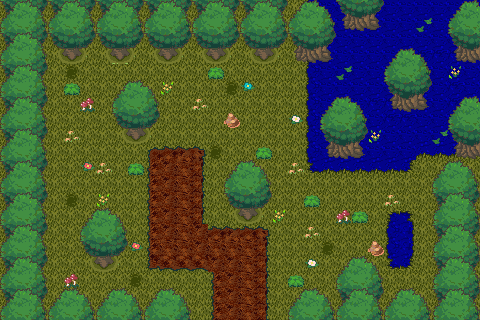
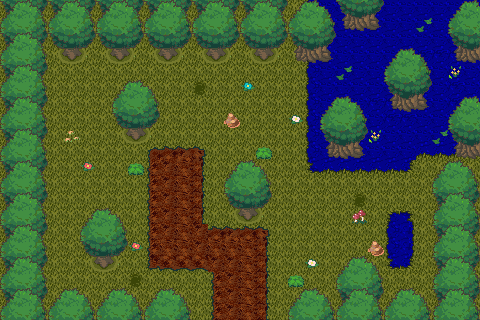
add colisoes, trocas de mapa, mapa 4

diff --git a/Projeto IP/Projeto-Final-IP---CC---2025.2/src/colisoes.py b/Projeto IP/Projeto-Final-IP---CC---2025.2/src/colisoes.py
@@ -1,4 +1,5 @@
 import pygame
+from src.mapas import Mapas 
 
 class Colisoes:
     def __init__(self, blocks):
@@ -6,17 +7,131 @@ class Colisoes:
 
     def coletar_xy(self, num):
         num -= 1
-        x = num % 16
-        y = int(num / 16)
+        x = num % 30
+        y = int(num / 30)
         return (x * 32, y * 32)
 
-    def criar_colisoes(self):
+    def criar_colisoes(self, lista_colisoes):
         coords = []
 
-        for block in self.blocks:
+        for block in lista_colisoes:
             coord = self.coletar_xy(block)
             coords.append(coord)
 
         return coords
 
+    def lista_colisoes(self, mapa_atual):
+        colisoes_base = self.get_colisoes(mapa_atual)
+        colisoes = self.criar_colisoes(colisoes_base)
+        lista_colisoes = []
+        for coord in colisoes:
+            colisao = pygame.Rect(coord[0], coord[1], 32, 32)
+            lista_colisoes.append(colisao)
 
+        return lista_colisoes
+
+    def get_colisoes(self, mapa_atual):
+        if mapa_atual == 1:
+            colisoes = [
+            [1, 1, 1, 1, 1, 1, 1, 1, 1, 1, 1, 1, 1, 1, 1, 1, 1, 1, 1, 1, 1, 1, 1, 1, 1, 1, 1, 1, 1, 1],
+            [1, 1, 1, 1, 1, 1, 1, 1, 1, 1, 1, 1, 1, 1, 1, 1, 1, 1, 1, 1, 1, 1, 1, 1, 1, 1, 1, 1, 1, 1],
+            [1, 1, 1, 1, 1, 1, 1, 1, 1, 1, 1, 1, 1, 1, 1, 1, 1, 1, 1, 1, 1, 1, 1, 1, 1, 1, 1, 1, 1, 1],
+            [1, 1, 1, 0, 0, 0, 0, 0, 0, 0, 0, 0, 0, 0, 0, 0, 0, 0, 0, 1, 1, 1, 1, 1, 1, 1, 1, 1, 1, 1],
+            [1, 1, 1, 0, 0, 0, 0, 0, 0, 0, 0, 0, 0, 0, 0, 0, 0, 0, 0, 1, 1, 1, 1, 1, 1, 1, 1, 1, 1, 1],
+            [1, 1, 1, 0, 0, 0, 0, 0, 0, 0, 0, 0, 0, 0, 0, 0, 0, 0, 0, 1, 1, 1, 1, 1, 1, 1, 1, 1, 1, 1],
+            [1, 1, 1, 0, 0, 0, 0, 1, 1, 1, 0, 0, 0, 0, 0, 0, 0, 0, 0, 1, 1, 1, 1, 1, 1, 1, 1, 1, 1, 1],
+            [1, 1, 1, 0, 0, 0, 0, 1, 1, 1, 0, 0, 0, 0, 1, 0, 0, 0, 0, 1, 1, 1, 1, 1, 1, 1, 1, 1, 1, 1],
+            [1, 1, 1, 0, 0, 0, 0, 0, 0, 0, 0, 0, 0, 0, 0, 0, 0, 0, 0, 1, 1, 1, 1, 1, 1, 1, 1, 1, 1, 1],
+            [1, 1, 1, 0, 0, 0, 0, 0, 0, 0, 0, 0, 0, 0, 0, 0, 0, 0, 0, 1, 1, 1, 1, 1, 1, 1, 1, 1, 1, 1],
+            [1, 1, 1, 0, 0, 0, 0, 0, 0, 0, 0, 0, 0, 0, 0, 0, 0, 0, 0, 1, 1, 1, 1, 1, 1, 1, 0, 0, 0, 0],
+            [1, 1, 1, 0, 0, 0, 0, 0, 0, 0, 0, 0, 0, 0, 1, 1, 1, 0, 0, 0, 0, 0, 0, 0, 0, 0, 0, 1, 1, 1],
+            [1, 1, 1, 0, 0, 0, 0, 0, 0, 0, 0, 0, 0, 0, 1, 1, 1, 0, 0, 0, 0, 0, 0, 0, 0, 0, 0, 1, 1, 1],
+            [1, 1, 1, 0, 0, 0, 0, 0, 0, 0, 0, 0, 0, 0, 0, 0, 0, 0, 0, 0, 0, 0, 0, 0, 1, 1, 0, 1, 1, 1],
+            [1, 1, 1, 0, 0, 1, 1, 1, 0, 0, 0, 0, 0, 0, 0, 0, 0, 0, 0, 0, 0, 0, 0, 0, 1, 1, 0, 1, 1, 1],
+            [1, 1, 1, 0, 0, 1, 1, 1, 0, 0, 0, 0, 0, 0, 0, 0, 0, 0, 0, 0, 0, 0, 0, 1, 1, 1, 0, 1, 1, 1],
+            [1, 1, 1, 0, 0, 0, 0, 0, 0, 0, 0, 0, 0, 0, 0, 0, 0, 0, 0, 0, 0, 0, 0, 0, 1, 1, 0, 1, 1, 1],
+            [1, 1, 1, 0, 0, 0, 0, 0, 0, 0, 0, 0, 0, 0, 0, 0, 0, 0, 0, 0, 0, 1, 1, 1, 0, 0, 0, 1, 1, 1],
+            [1, 1, 1, 0, 0, 0, 0, 0, 0, 0, 0, 0, 0, 0, 0, 0, 0, 0, 0, 0, 0, 1, 1, 1, 0, 0, 0, 1, 1, 1],
+            [1, 1, 1, 1, 1, 1, 1, 1, 1, 1, 1, 1, 0, 0, 0, 0, 0, 0, 1, 1, 1, 1, 1, 1, 1, 1, 1, 1, 1, 1]]
+
+        elif mapa_atual == 2:
+            colisoes = [
+            [1, 1, 1, 1, 1, 1, 1, 1, 1, 1, 1, 1, 0, 0, 0, 0, 0, 0, 1, 1, 1, 1, 1, 1, 1, 1, 1, 1, 1, 1],
+            [1, 1, 1, 1, 1, 1, 1, 1, 1, 1, 1, 1, 0, 0, 0, 0, 0, 0, 1, 1, 1, 1, 1, 1, 1, 1, 1, 1, 1, 1],
+            [1, 1, 1, 1, 1, 1, 1, 1, 1, 1, 1, 1, 0, 0, 0, 0, 0, 0, 1, 1, 1, 1, 1, 1, 1, 1, 1, 1, 1, 1],
+            [1, 1, 1, 0, 0, 0, 0, 0, 0, 0, 0, 0, 0, 0, 0, 0, 0, 0, 0, 0, 0, 0, 0, 0, 0, 0, 0, 1, 1, 1],
+            [1, 1, 1, 0, 0, 0, 0, 0, 0, 0, 0, 0, 0, 0, 0, 0, 0, 0, 0, 0, 0, 0, 0, 0, 0, 0, 0, 1, 1, 1],
+            [1, 1, 1, 0, 1, 0, 0, 0, 0, 0, 0, 0, 0, 0, 0, 0, 0, 0, 0, 0, 0, 1, 1, 1, 0, 0, 0, 1, 1, 1],
+            [1, 1, 1, 0, 0, 0, 0, 0, 0, 0, 0, 0, 0, 0, 0, 0, 0, 0, 0, 1, 0, 1, 1, 1, 0, 0, 0, 1, 1, 1],
+            [1, 1, 1, 0, 0, 0, 0, 0, 0, 1, 0, 0, 0, 0, 0, 0, 0, 0, 0, 0, 0, 0, 0, 0, 0, 0, 0, 0, 0, 0],
+            [1, 1, 1, 0, 1, 1, 0, 0, 0, 0, 0, 0, 0, 0, 0, 0, 0, 0, 0, 0, 0, 0, 0, 0, 0, 0, 0, 0, 0, 0],
+            [1, 1, 1, 0, 1, 1, 0, 0, 0, 0, 0, 0, 0, 0, 0, 0, 0, 0, 0, 0, 0, 0, 0, 0, 0, 0, 0, 0, 0, 0],
+            [1, 1, 1, 0, 1, 1, 0, 0, 1, 1, 1, 1, 0, 0, 0, 0, 0, 0, 0, 0, 0, 0, 0, 0, 0, 0, 0, 0, 0, 0],
+            [1, 1, 1, 0, 1, 1, 0, 0, 1, 1, 1, 1, 0, 0, 0, 0, 0, 0, 0, 0, 0, 0, 0, 0, 0, 0, 0, 0, 0, 0],
+            [1, 1, 1, 0, 0, 0, 0, 0, 1, 1, 1, 1, 0, 0, 0, 0, 0, 0, 0, 0, 0, 0, 0, 0, 0, 0, 0, 0, 0, 0],
+            [1, 1, 1, 0, 0, 0, 1, 0, 1, 1, 1, 1, 0, 0, 0, 0, 0, 0, 0, 0, 0, 0, 0, 0, 0, 0, 0, 1, 1, 1],
+            [1, 1, 1, 0, 0, 0, 0, 0, 0, 0, 0, 0, 0, 0, 1, 0, 0, 0, 0, 0, 1, 0, 0, 0, 0, 0, 0, 1, 1, 1],
+            [1, 1, 1, 1, 1, 1, 1, 1, 0, 0, 0, 0, 0, 0, 0, 0, 0, 0, 0, 0, 0, 0, 1, 0, 0, 0, 0, 1, 1, 1],
+            [1, 1, 1, 1, 1, 1, 1, 1, 0, 0, 0, 0, 0, 0, 0, 0, 0, 0, 0, 0, 0, 0, 0, 0, 0, 0, 0, 1, 1, 1],
+            [1, 1, 1, 1, 1, 1, 1, 1, 0, 0, 0, 0, 0, 0, 1, 0, 0, 0, 0, 0, 0, 0, 0, 0, 0, 1, 0, 1, 1, 1],
+            [1, 1, 1, 1, 1, 1, 1, 1, 1, 0, 0, 0, 0, 0, 0, 0, 0, 0, 0, 0, 0, 0, 0, 0, 0, 0, 0, 1, 1, 1],
+            [1, 1, 1, 1, 1, 1, 1, 1, 1, 1, 1, 1, 1, 1, 1, 1, 1, 1, 1, 1, 1, 1, 1, 1, 1, 1, 1, 1, 1, 1]]
+
+        elif mapa_atual == 3:
+            colisoes = [
+            [1, 1, 1, 1, 1, 1, 1, 1, 1, 1, 1, 1, 1, 1, 1, 0, 0, 0, 0, 1, 1, 1, 1, 1, 1, 1, 1, 1, 1, 1],
+            [1, 1, 1, 1, 1, 1, 1, 1, 1, 1, 1, 1, 1, 1, 1, 0, 0, 0, 0, 1, 1, 1, 1, 1, 1, 1, 1, 1, 1, 1],
+            [1, 1, 1, 1, 1, 1, 1, 1, 1, 1, 1, 1, 1, 1, 1, 0, 0, 0, 0, 1, 1, 1, 1, 1, 1, 1, 1, 1, 1, 1],
+            [1, 1, 1, 0, 0, 0, 0, 0, 0, 0, 0, 0, 0, 0, 0, 0, 0, 0, 0, 0, 0, 0, 1, 1, 1, 1, 1, 1, 1, 1],
+            [1, 1, 1, 0, 0, 0, 0, 0, 0, 0, 0, 0, 0, 0, 0, 0, 0, 0, 0, 0, 0, 0, 1, 1, 1, 1, 1, 1, 1, 1],
+            [1, 1, 1, 0, 0, 0, 0, 0, 0, 0, 0, 0, 0, 0, 0, 0, 0, 0, 0, 0, 0, 0, 1, 1, 1, 1, 1, 1, 1, 1],
+            [1, 1, 1, 0, 0, 1, 1, 1, 0, 0, 0, 0, 0, 0, 0, 0, 0, 0, 0, 0, 0, 0, 1, 1, 1, 1, 1, 1, 1, 1],
+            [0, 0, 0, 0, 0, 1, 1, 1, 0, 0, 0, 0, 0, 0, 0, 0, 0, 0, 0, 0, 0, 0, 1, 1, 1, 1, 1, 1, 1, 1],
+            [0, 0, 0, 0, 0, 0, 0, 0, 0, 0, 0, 0, 0, 0, 0, 0, 0, 0, 0, 0, 0, 0, 1, 1, 1, 1, 1, 1, 1, 1],
+            [0, 0, 0, 0, 0, 0, 0, 0, 0, 0, 0, 0, 0, 0, 0, 0, 0, 0, 0, 0, 0, 0, 1, 1, 1, 1, 1, 1, 1, 1],
+            [0, 0, 0, 0, 0, 0, 0, 0, 0, 0, 0, 0, 0, 0, 0, 0, 0, 0, 0, 1, 1, 1, 1, 1, 1, 1, 1, 1, 1, 1],
+            [0, 0, 0, 0, 0, 0, 0, 0, 0, 0, 0, 0, 0, 0, 0, 0, 0, 0, 0, 1, 1, 1, 1, 1, 1, 1, 1, 1, 1, 1],
+            [0, 0, 0, 0, 0, 0, 0, 0, 0, 0, 0, 0, 0, 0, 0, 0, 0, 0, 0, 0, 0, 0, 1, 1, 1, 1, 1, 1, 1, 1],
+            [1, 1, 1, 0, 0, 0, 0, 0, 0, 0, 0, 1, 1, 1, 0, 0, 0, 0, 0, 0, 0, 0, 1, 1, 1, 1, 1, 1, 1, 1],
+            [1, 1, 1, 0, 0, 0, 0, 0, 0, 0, 0, 1, 1, 1, 0, 0, 0, 0, 0, 0, 0, 0, 1, 1, 1, 1, 1, 1, 1, 1],
+            [1, 1, 1, 0, 0, 0, 0, 0, 0, 0, 0, 0, 0, 0, 0, 0, 0, 0, 0, 0, 0, 0, 1, 1, 1, 1, 1, 1, 1, 1],
+            [1, 1, 1, 0, 0, 0, 0, 0, 0, 0, 0, 0, 0, 0, 0, 0, 0, 0, 0, 0, 0, 0, 1, 1, 1, 1, 1, 1, 1, 1],
+            [1, 1, 1, 0, 0, 0, 0, 0, 0, 0, 0, 0, 0, 0, 0, 0, 0, 0, 0, 0, 0, 0, 1, 1, 1, 1, 1, 1, 1, 1],
+            [1, 1, 1, 0, 0, 0, 0, 0, 0, 0, 0, 0, 0, 0, 0, 0, 0, 0, 0, 0, 0, 0, 1, 1, 1, 1, 1, 1, 1, 1],
+            [1, 1, 1, 1, 1, 1, 1, 1, 1, 1, 1, 1, 1, 1, 1, 0, 0, 0, 0, 1, 1, 1, 1, 1, 1, 1, 1, 1, 1, 1]]
+
+        elif mapa_atual == 4:
+            colisoes = [
+            [0, 0, 0, 0, 0, 0, 0, 0, 0, 0, 0, 0, 0, 0, 0, 0, 0, 0, 0, 0, 0, 0, 1, 1, 1, 1, 1, 1, 1, 1],
+            [0, 0, 0, 0, 0, 0, 0, 0, 0, 0, 0, 0, 0, 0, 0, 0, 0, 0, 0, 0, 0, 0, 1, 1, 1, 1, 1, 1, 1, 1],
+            [0, 0, 0, 0, 0, 0, 0, 0, 0, 0, 0, 0, 0, 0, 0, 0, 0, 0, 0, 0, 0, 0, 1, 1, 1, 1, 1, 1, 1, 1],
+            [0, 0, 0, 0, 0, 0, 0, 0, 0, 0, 0, 0, 0, 0, 0, 0, 0, 0, 0, 0, 0, 0, 1, 1, 1, 1, 1, 1, 1, 1],
+            [0, 0, 0, 0, 0, 0, 0, 0, 0, 0, 0, 0, 0, 0, 0, 0, 0, 0, 0, 0, 0, 0, 1, 1, 1, 1, 1, 1, 1, 1],
+            [0, 0, 0, 0, 0, 0, 0, 0, 0, 0, 0, 0, 0, 0, 0, 0, 0, 0, 0, 0, 0, 0, 1, 1, 1, 1, 1, 1, 1, 1],
+            [0, 0, 0, 0, 0, 0, 0, 0, 0, 0, 0, 0, 0, 0, 0, 0, 0, 0, 0, 0, 0, 0, 1, 1, 1, 1, 1, 1, 1, 1],
+            [0, 0, 0, 0, 0, 0, 0, 0, 0, 0, 0, 0, 0, 0, 0, 0, 0, 0, 0, 0, 0, 0, 1, 1, 1, 1, 1, 1, 1, 1],
+            [0, 0, 0, 0, 0, 0, 0, 0, 0, 0, 0, 0, 0, 0, 0, 0, 0, 0, 0, 0, 0, 0, 1, 1, 1, 1, 1, 1, 1, 1],
+            [0, 0, 0, 0, 0, 0, 0, 0, 0, 0, 0, 0, 0, 0, 0, 0, 0, 0, 0, 0, 0, 0, 1, 1, 1, 1, 1, 1, 1, 1],
+            [0, 0, 0, 0, 0, 0, 0, 0, 0, 0, 0, 0, 0, 0, 0, 0, 0, 0, 0, 0, 0, 0, 1, 1, 1, 1, 1, 1, 1, 1],
+            [0, 0, 0, 0, 0, 0, 0, 0, 0, 0, 0, 0, 0, 0, 0, 0, 0, 0, 0, 0, 0, 0, 1, 1, 1, 1, 1, 1, 1, 1],
+            [0, 0, 0, 0, 0, 0, 0, 0, 0, 0, 0, 0, 0, 0, 0, 0, 0, 0, 0, 0, 0, 0, 1, 1, 1, 1, 1, 1, 1, 1],
+            [0, 0, 0, 0, 0, 0, 0, 0, 0, 0, 0, 0, 0, 0, 0, 0, 0, 0, 0, 0, 0, 0, 1, 1, 1, 1, 1, 1, 1, 1],
+            [0, 0, 0, 0, 0, 0, 0, 0, 0, 0, 0, 0, 0, 0, 0, 0, 0, 0, 0, 0, 0, 0, 1, 1, 1, 1, 1, 1, 1, 1],
+            [0, 0, 0, 0, 0, 0, 0, 0, 0, 0, 0, 0, 0, 0, 0, 0, 0, 0, 0, 0, 0, 0, 1, 1, 1, 1, 1, 1, 1, 1],
+            [0, 0, 0, 0, 0, 0, 0, 0, 0, 0, 0, 0, 0, 0, 0, 0, 0, 0, 0, 0, 0, 0, 1, 1, 1, 1, 1, 1, 1, 1],
+            [0, 0, 0, 0, 0, 0, 0, 0, 0, 0, 0, 0, 0, 0, 0, 0, 0, 0, 0, 0, 0, 0, 1, 1, 1, 1, 1, 1, 1, 1],
+            [0, 0, 0, 0, 0, 0, 0, 0, 0, 0, 0, 0, 0, 0, 0, 0, 0, 0, 0, 0, 0, 0, 1, 1, 1, 1, 1, 1, 1, 1],
+            [1, 1, 1, 1, 1, 1, 1, 1, 1, 1, 1, 1, 1, 1, 1, 0, 0, 0, 0, 1, 1, 1, 1, 1, 1, 1, 1, 1, 1, 1]]
+
+        colisoes = self.transformar_num(colisoes)
+        return colisoes
+    
+    def transformar_num(self, matriz):
+        lista = []
+        for i in range(20):
+            for j in range(30):
+                if matriz[i][j] == 1:
+                    num = 1 + (30*i) + j
+                    lista.append(num)
+
+        return lista

diff --git a/Projeto IP/Projeto-Final-IP---CC---2025.2/src/mapas.py b/Projeto IP/Projeto-Final-IP---CC---2025.2/src/mapas.py
@@ -8,12 +8,24 @@ class Mapas:
         self.mapa1 = pygame.image.load('Projeto IP/Projeto-Final-IP---CC---2025.2/Assets/Imagens/mapa_1.png')
         self.mapa2 = pygame.image.load('Projeto IP/Projeto-Final-IP---CC---2025.2/Assets/Imagens/mapa_2.png')
         self.mapa3 = pygame.image.load('Projeto IP/Projeto-Final-IP---CC---2025.2/Assets/Imagens/mapa_3.png')
+        self.mapa4 = pygame.image.load('Projeto IP/Projeto-Final-IP---CC---2025.2/Assets/Imagens/mapa_4.png')
+
+        self.mapa1_arvores = pygame.image.load('Projeto IP/Projeto-Final-IP---CC---2025.2/Assets/Imagens/mapa_1_arvores.png')
+        self.mapa2_arvores = pygame.image.load('Projeto IP/Projeto-Final-IP---CC---2025.2/Assets/Imagens/mapa_2_arvores.png')
+        self.mapa3_arvores = pygame.image.load('Projeto IP/Projeto-Final-IP---CC---2025.2/Assets/Imagens/mapa_3_arvores.png')
+        self.mapa4_arvores = pygame.image.load('Projeto IP/Projeto-Final-IP---CC---2025.2/Assets/Imagens/mapa_4_arvores.png')
 
         self.mapa1 = pygame.transform.scale(self.mapa1, (largura, altura))
         self.mapa2 = pygame.transform.scale(self.mapa2, (largura, altura))
         self.mapa3 = pygame.transform.scale(self.mapa3, (largura, altura))
+        self.mapa4 = pygame.transform.scale(self.mapa4, (largura, altura))
 
-        # mapa atual
+        self.mapa1_arvores = pygame.transform.scale(self.mapa1_arvores, (largura, altura))
+        self.mapa2_arvores = pygame.transform.scale(self.mapa2_arvores, (largura, altura))
+        self.mapa3_arvores = pygame.transform.scale(self.mapa3_arvores, (largura, altura))
+        self.mapa4_arvores = pygame.transform.scale(self.mapa4_arvores, (largura, altura))
+
+        # mapa inicial
         self.mapa_atual = 1
 
     def desenhar(self, tela):
@@ -23,14 +35,25 @@ class Mapas:
             tela.blit(self.mapa2, (0, 0))
         elif self.mapa_atual == 3:
             tela.blit(self.mapa3, (0, 0))
+        elif self.mapa_atual == 4:
+            tela.blit(self.mapa4, (0, 0))
+
+    def desenhar_arvores(self, tela):
+        if self.mapa_atual == 1:
+            tela.blit(self.mapa1_arvores, (0, 0))
+        elif self.mapa_atual == 2:
+             tela.blit(self.mapa2_arvores, (0, 0))
+        elif self.mapa_atual == 3:
+             tela.blit(self.mapa3_arvores, (0, 0))
+        elif self.mapa_atual == 4:
+             tela.blit(self.mapa4_arvores, (0, 0))
 
     def trocar_mapa(self, player):
-
         if self.mapa_atual == 1:
             if player.rect.top > self.altura:
                 self.mapa_atual = 2
-                player.rect.y = 0
                 player.pos_y = 0.0
+                player.rect.y = int(player.pos_y)
 
         elif self.mapa_atual == 2:
             if player.rect.bottom < 0:
@@ -49,3 +72,13 @@ class Mapas:
                 player.rect.x = self.largura - player.rect.width
                 player.pos_x = float(player.rect.x)
 
+            elif player.rect.top > self.altura:
+                self.mapa_atual = 4
+                player.pos_y = 0.0
+                player.rect.y = int(player.pos_y)
+
+        elif self.mapa_atual == 4:
+            if player.rect.bottom < 0:
+                self.mapa_atual = 3
+                player.rect.y = self.altura - player.rect.height
+                player.pos_y = float(player.rect.y)

diff --git a/Projeto IP/Projeto-Final-IP---CC---2025.2/src/player.py b/Projeto IP/Projeto-Final-IP---CC---2025.2/src/player.py
@@ -2,7 +2,7 @@ import pygame
 import os
 
 class Player(pygame.sprite.Sprite):
-    def __init__(self, x, y):
+    def __init__(self, x, y, colisoes):
         super().__init__()
         
         # Configuracao da animacao
@@ -19,7 +19,8 @@ class Player(pygame.sprite.Sprite):
             "idle_right": [], "run_right": [],
         }
         self.import_assets() # Chama a funcao q carrega as imagens
-        
+        self.colisoes = colisoes
+
         # Imagem inicial
         self.image = self.animations[self.status][self.frame_index]
         self.rect = self.image.get_rect(topleft = (x, y))
@@ -119,18 +120,33 @@ class Player(pygame.sprite.Sprite):
         self.image = animation[int(self.frame_index)]
     
     def update(self):
-        self.input() # Chama a funcao input
+        self.input()
         self.get_status()
         self.animate()
-        
-        # Atualiza posicao
+
+        # colisão horizontal
         self.pos_x += self.direction.x * self.speed
+        self.hitbox.centerx = int(self.pos_x + (self.rect.width / 2))
+        
+        for barreira in self.colisoes:
+            if self.hitbox.colliderect(barreira):
+                if self.direction.x > 0:
+                    self.hitbox.right = barreira.left
+                if self.direction.x < 0:
+                    self.hitbox.left = barreira.right
+                self.pos_x = self.hitbox.centerx - (self.rect.width / 2)
+
+        # colisão vertical
         self.pos_y += self.direction.y * self.speed
-        
-        # Atualiza o rect -> que é o que o Pygame desenha na tela
-        self.rect.x = int(self.pos_x)
-        self.rect.y = int(self.pos_y)
-        
-        self.hitbox.center = self.rect.center
-    
+        self.hitbox.centery = int(self.pos_y + (self.rect.height / 2)) # Sincroniza hitbox com a nova pos_y
+
+        for barreira in self.colisoes:
+            if self.hitbox.colliderect(barreira):
+                if self.direction.y > 0:
+                    self.hitbox.bottom = barreira.top
+                if self.direction.y < 0:
+                    self.hitbox.top = barreira.bottom
+                self.pos_y = self.hitbox.centery - (self.rect.height / 2)
+
+        self.rect.center = self.hitbox.center
         

diff --git a/Projeto IP/Projeto-Final-IP---CC---2025.2/main.py b/Projeto IP/Projeto-Final-IP---CC---2025.2/main.py
@@ -15,7 +15,7 @@ mapas = Mapas(largura, altura)
 tela = pygame.display.set_mode((largura, altura)) # Define o tamanho da janela do jogo
 pygame.display.set_caption("Nome do jogo") # Nome que aparece no título da janela
 
-player = Player(250, 250)
+player = Player(250, 250, [])
 player.vida = 3 # Começa com 3 corações
 
 # Criando grupo de inimigos espalhados
@@ -64,6 +64,12 @@ while running_game:
         if event.type == pygame.QUIT:
             running_game = False
 
+    # troca de mapa (altera o rect diretamente)
+    mapas.trocar_mapa(player)            
+    
+    # desenha mapa
+    mapas.desenhar(tela)
+
     # Lógica de Game Over 
     if player.vida <= 0:
         print("GAME OVER")
@@ -85,18 +91,15 @@ while running_game:
             elif item.tipo == "carangueijo":
                 print("pegou carangueijo")
                 qnt_carangueijo+=1
-                
-    # desenha mapa
-    mapas.desenhar(tela)
-    
-    # troca de mapa (altera o rect diretamente)
-    mapas.trocar_mapa(player)
 
     # coletar colisões
-    colisoes = Colisoes([3, 5, 9, 11, 241])
-    colisoes = colisoes.criar_colisoes()
-    for coord in colisoes:
-        caixa = pygame.Rect(coord[0], coord[1], 32, 32)
+    atual = mapas.mapa_atual
+    colisoes = Colisoes([])
+    colisoes = colisoes.lista_colisoes(atual)
+    player.colisoes = colisoes
+    # for coord in colisoes:
+    #     caixa = pygame.Rect(coord[0], coord[1], 32, 32)
+    #     pygame.draw.rect(tela, '#ff0000', caixa, 1)
         # Adicionar colisão do inimigo com paredes aqui futuramente
 
     #atualiza todos os sprites do grupo do player
@@ -106,10 +109,14 @@ while running_game:
     sprites_group.draw(tela)
     grupo_coletaveis.draw(tela) #desenha os coletaveis
     grupo_inimigos.draw(tela) #Desenha os inimigos
-    
+    # pygame.draw.rect(tela, '#00ff00', player.hitbox, 1)
+
     # HUD dos coletaveis
     hud.desenhar_hud(tela, qnt_chapeu, qnt_oculos, qnt_carangueijo, player.vida)
-   
+    
+    # desenha a camada de árvores
+    mapas.desenhar_arvores(tela)
+
     pygame.display.update()
 
 pygame.quit()
